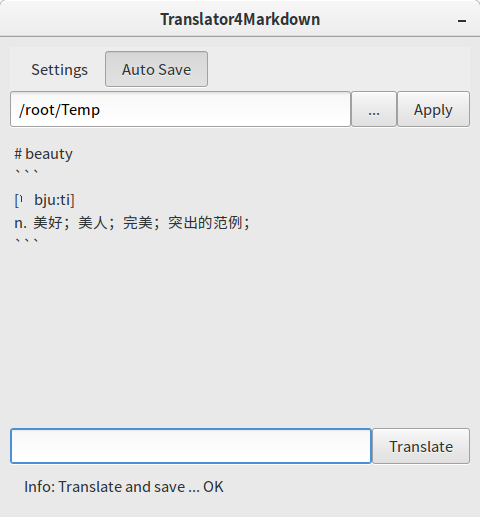
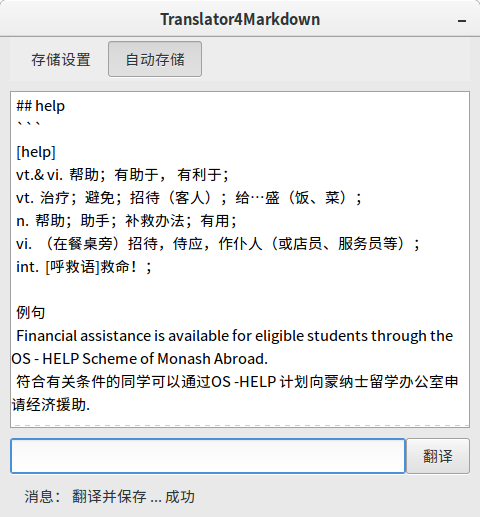
修改一些问题，添加异步

diff --git a/main.py b/main.py
@@ -6,35 +6,59 @@ gi.require_version('Gtk', '3.0')
 from gi.repository import Gtk
 import config, translate
 import datetime
+import asyncio
+from concurrent.futures import Executor,ThreadPoolExecutor
 
-def request_translate():
-    input = inputentry.get_text().strip()
+pool = ThreadPoolExecutor(3)
+
+async def request_translate():
+    global pool
+    input = inputentry.get_text().strip().lower()
     if(len(input)==0):
         return
     else:
-        show_hint(0, "Translate start ...")
-        result,ok = translate.translate(input)
-        displaylabel.set_text(result)
-        show_hint(0, "Translate ... end")
+        show_hint(0, u"翻译开始 ... 请等待 ...")
+        pool.submit(translate.translate)
+
+        loop = asyncio.get_event_loop()
+        tasks = [
+            loop.run_in_executor(pool, translate.translate, input),
+        ]
+        completed, pending = await asyncio.wait(tasks, timeout=1000)
+        results = [t.result() for t in completed]
+
+        if(results is None or len(results)==0):
+            show_hint(u"翻译 ... 失败")
+        
+        result, ok = results[0]
+
+        textview.get_buffer().set_text(result)
+        show_hint(0, u"翻译 ... 完成")
         inputentry.set_text("")
-        show_hint(0 if(ok) else 1, "Translate ... %s" % ("OK" if(ok) else "Failed"))
+        show_hint(0 if(ok) else 1, u"翻译 ... %s" % (u"成功" if(ok) else u"失败"))
         if(ok and autosavebtn.get_active()):
-            if(not os.path.isdir(config.storagePath)):
+            if(not os.path.isdir(storagePath)):
                 return
             fn = datetime.datetime.now().strftime('%Y-%m')
-            file = "%s/word-%s.md" % (config.storagePath, fn)
-
+            file = "%s/word-%s.md" % (storagePath, fn)
             addtoc = False if(os.path.exists(file)) else True
 
-            with open(file, "a") as f:
-                if(addtoc):
-                    f.write("# %s\n\n" % fn)
-                    f.write("[TOC]")
+            try:
+                with open(file, "a") as f:
+                    if(addtoc):
+                        f.write("# %s\n\n" % fn)
+                        f.write("[TOC]")
+                        f.write("\n\n")
+                    f.write(result)
                     f.write("\n\n")
-                f.write(result)
-                f.write("\n\n")
-                f.close()
-                show_hint(0, "Translate and save ... OK")
+                    f.close()
+                    show_hint(0, u"翻译并保存 ... 成功")
+            except:
+                show_hint(1, u"翻译并保存 ... 失败")
+
+def asynctranslate():
+    loop = asyncio.get_event_loop()
+    loop.run_until_complete(request_translate())
 
 
 class Handler:
@@ -42,7 +66,7 @@ class Handler:
         config.setAutoSave(button.get_active())
 
     def on_transbtn_clicked(self, button):
-        request_translate()
+        asynctranslate()
     
     def on_settingsbtn_clicked(self, button):
         if(settingbox.get_property("visible")):
@@ -62,25 +86,31 @@ class Handler:
         filechooserdialog.hide()
 
     def on_settings_clicked(self, button):
+        global storagePath
         new = settingentry.get_text().strip()
         if(len(new) > 0 and os.path.exists(new) and os.path.isdir(new)):
             config.setStoragePath(new)
-            show_hint(0, "Set markdown record storage to %s" % new)
+            storagePath = new
+            show_hint(0, u"设置Markdown存储路径 ... 失败")
 
     def on_window_destroy(self, *args):
         filechooserdialog.destroy()
+        loop = asyncio.get_event_loop()
+        loop.close()
         Gtk.main_quit(*args)
 
     def on_inputentry_key_press_event(self, entry, key):
-        if(36 == key.get_keycode()[1]):
-            request_translate()
+        if(36 == key.get_keycode()[1]):  
+            asynctranslate()
 
     def on_settingentry_key_press_event(self, entry, key):
         if(key.get_keycode()==36):
             pass
 
 def show_hint(msgtype, msg):
-    statusbar.push(0, ("%s: %s") % ("Error" if(msgtype!=0) else "Info", msg))
+    statusbar.push(0, (u"%s： %s") % (u"错误" if(msgtype!=0) else u"消息", msg))
+
+os.chdir(os.path.dirname(os.path.abspath(__file__)))
 
 builder = Gtk.Builder()
 builder.add_from_file("layout.xml")
@@ -93,13 +123,14 @@ window.move((screen.width()-window.get_size()[0]),(screen.height()-window.get_si
 autosavebtn = builder.get_object("autosavebtn")
 autosavebtn.set_active(config.isAutoSave())
 
-displaylabel = builder.get_object("displaylabel")
+textview = builder.get_object("textview")
 inputentry = builder.get_object("inputentry")
 transbtn = builder.get_object("transbtn")
 
 settingbox = builder.get_object("settingbox")
 settingentry = builder.get_object("settingentry")
-settingentry.set_text(config.getStoragePath())
+storagePath = config.getStoragePath()
+settingentry.set_text(storagePath)
 statusbar = builder.get_object("statusbar")
 
 filechooserdialog = builder.get_object("filechooserdialog")

diff --git a/translate.py b/translate.py
@@ -15,6 +15,7 @@ def getencodeurl(ew):
 def parse(data):
     result = ""
     hasps = False
+    hassent = False
     try:
         with parseString(data) as d:
             if(d.nodeType != Node.DOCUMENT_NODE):
@@ -44,6 +45,25 @@ def parse(data):
                     result += "%s  " % value
                 elif(name == "acceptation"):
                     result += "%s" % value
+                elif(name=="sent"):
+                    if(not hassent):
+                        hassent = True
+                        result += "\n例句\n"
+
+                    for i in item.childNodes:
+                        n = i.nodeName
+                        if(n == "#text"):
+                            continue
+                        v = i.childNodes[0].nodeValue
+                        if(v is None):
+                            continue
+                        
+                        if(n == "orig"):
+                            result += v.strip('\n')
+                        elif(n == "trans"):
+                            result += v + "\n"
+                        
+
             if(hasps):
                 return result + "```"
             else:
@@ -55,9 +75,12 @@ def parse(data):
 def translate(ew):
     url = getencodeurl(ew)
     result = None
-    with urllib.request.urlopen(url) as f:
-        result = parse(f.read().decode('utf-8'))
-        f.close()
+    try:
+        with urllib.request.urlopen(url) as f:
+            result = parse(f.read().decode('utf-8'))
+            f.close()
+    except Exception as e:
+        pass
     if(result is None):
         return ("# %s" % ew, False)
     else:

diff --git a/config.py b/config.py
@@ -7,6 +7,7 @@ import os
 configfile = os.environ["HOME"] + "/.translate2markdown/config.conf"
 defaultstoragepath = os.environ["HOME"] + "/Translate2markdown"
 
+
 if(not os.path.exists(configfile)):
     os.makedirs(os.path.dirname(configfile),exist_ok=True)
     os.makedirs(defaultstoragepath, exist_ok=True)
@@ -34,9 +35,8 @@ def getStoragePath():
 
 def setStoragePath(path):
     parser.set("global", "storagePath", path)
-    storagePath = path
     with open(configfile,"w") as f:
         parser.write(f)
         f.close()
 
-storagePath = getStoragePath()
+
